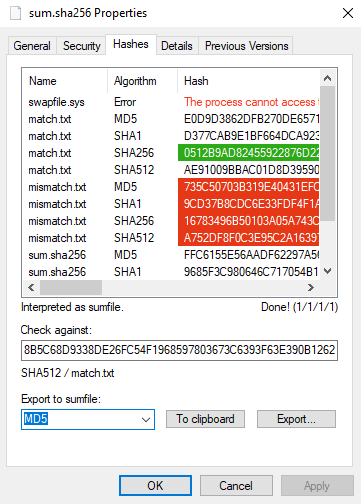
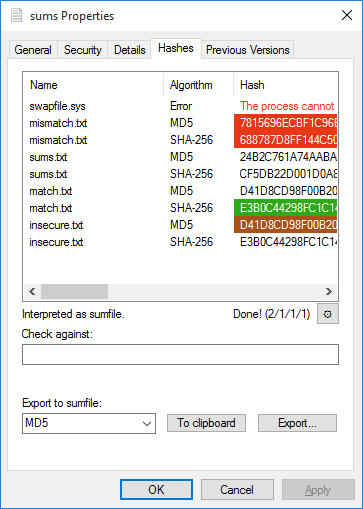
bump numbers to 2.0, edit readme

diff --git a/OpenHashTab/dllmain.cpp b/OpenHashTab/dllmain.cpp
@@ -19,6 +19,8 @@
 #include "dllmain.h"
 #include "Queues.h"
 
+#pragma comment(linker,"\"/manifestdependency:type='win32' name='Microsoft.Windows.Common-Controls' version = '6.0.0.0' processorArchitecture = '*' publicKeyToken = '6595b64144ccf1df' language = '*'\"")
+
 COpenHashTabModule _AtlModule;
 
 // DLL Entry Point

diff --git a/README.md b/README.md
@@ -6,9 +6,10 @@ OpenHashTab is a shell extension for conveniently calculating and checking file 
 
 ## Features
 
-* MD5, SHA1, SHA-256 and SHA-512 support
-* md5sum / sha1sum / sha256sum / sha512sum compatibility for checking and exporting hashes
-* Easy to use checker and single-click export to clipboard or file
+* Support for 14 different selectable algorithms, see **Algorithms**
+* md5sum / sha1sum / sha256sum / etc.. compatibility for checking and exporting hashes
+* Easy to use checker and single-click sumfile export to clipboard or file
+* Select then 
 * High performance hash calculation
 * Native Windows looks
 * Long path support\*
@@ -16,13 +17,32 @@ OpenHashTab is a shell extension for conveniently calculating and checking file 
 
 \* On Windows 8 or later, to the extent Windows supports it.
 
+## Usage
+
+Most of the actions should be obvious. The hash list supports the following actions:
+
+* Double click hash to copy it
+* Double click name or algorithm to copy the line in sumfile format
+* Select (possibly multiple) then right click to copy all columns separated by tabs
+* The counters next to the status text is in the format `(match/mismatch/nothing to check against/error)`
+
+## Algorithms
+
+* CRC32
+* MD2, MD4, MD5
+* RipeMD160
+* Blake2sp
+* SHA-1
+* SHA-2 (SHA-224, SHA-256, SHA-384, SHA-512)
+* SHA-3 (SHA3-256, SHA3-384, SHA3-512)
+
 ## Download
 
 [Latest release](https://github.com/namazso/OpenHashTab/releases/latest/download/OpenHashTab_setup.exe)
 
 ## Screenshot
 
-![Screenshot](resources/screenshot.png)
+![Screenshot](resources/screenshot.png) ![Algorithms](resources/algorithms.png)
 
 ## Donations
 
